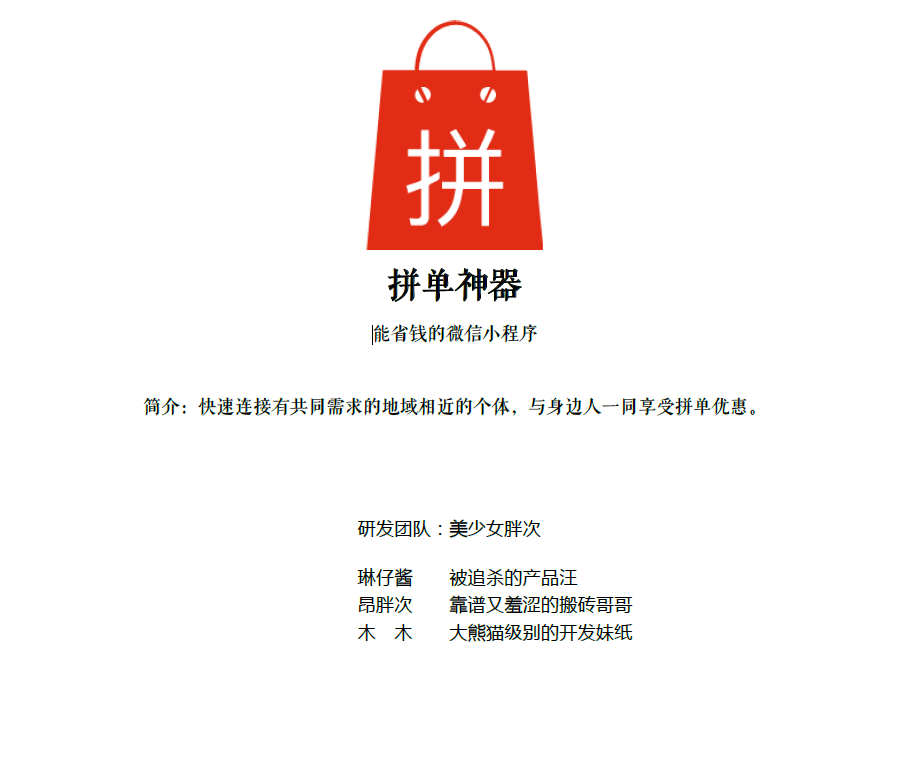
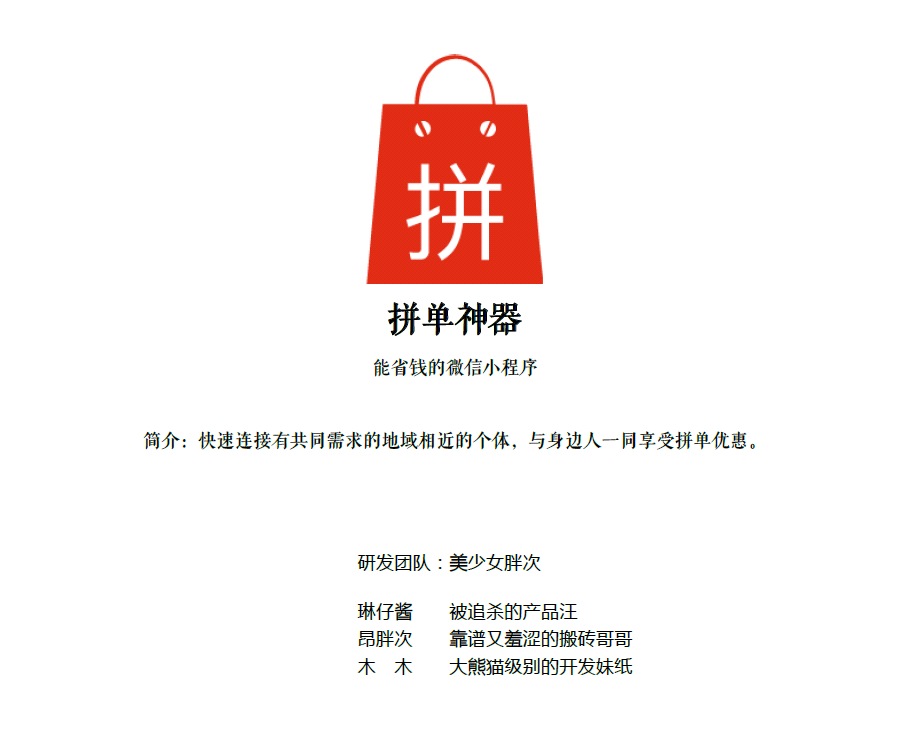
update readme

diff --git a/readme.md b/readme.md
@@ -1,7 +1,7 @@
-## 微信小程序-凑单神器
+## 微信小程序-拼单神器
 ![inroduce](./pictures/introduce.png)
 ### 背景
-&emsp;为了解决电商的一些活动门槛（如：满额减、满额起送等）达不到，而导致的购物难问题，改善高校同学得凑单体验。
+&emsp;快速连接有共同需求的地域相近的个体，共享商家的一些促销活动（如：满额减、满额起送等），改善高校同学的拼单体验，与身边人一同享受拼单优惠。
 ### 项目框架
 &emsp;前端选择是微信小程序，后端是[leanCloud](https://leancloud.cn/)。
 ### 功能点及完成情况概述
